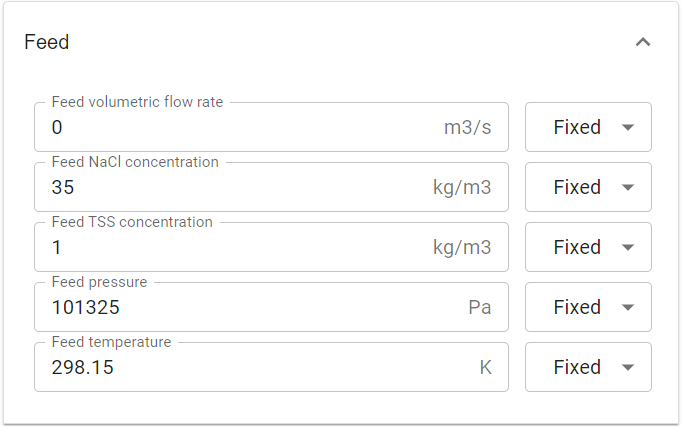
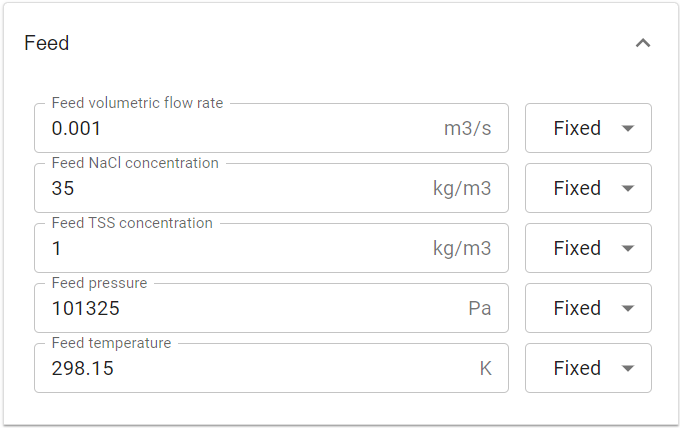
Update rounding for feed flow vol

diff --git a/week4/filtration_RO_with_ERD_ui.py b/week4/filtration_RO_with_ERD_ui.py
@@ -50,7 +50,7 @@ def export_variables(flowsheet=None, exports=None, build_options=None, **kwargs)
         name="Feed volumetric flow rate",
         ui_units=pyunits.m**3 / pyunits.s,
         display_units="m3/s",
-        rounding=2,
+        rounding=4,
         description="Inlet volumetric flow rate",
         is_input=True,
         input_category="Feed",
